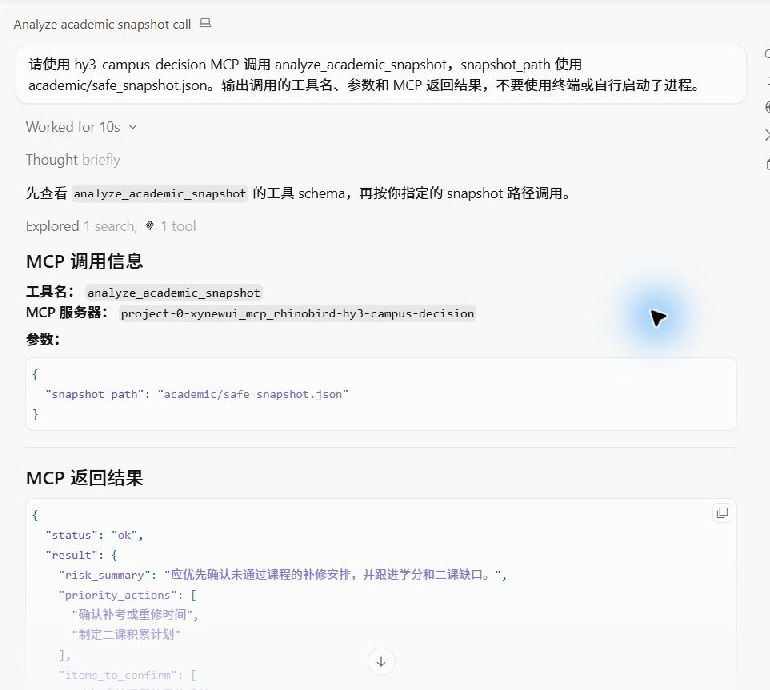
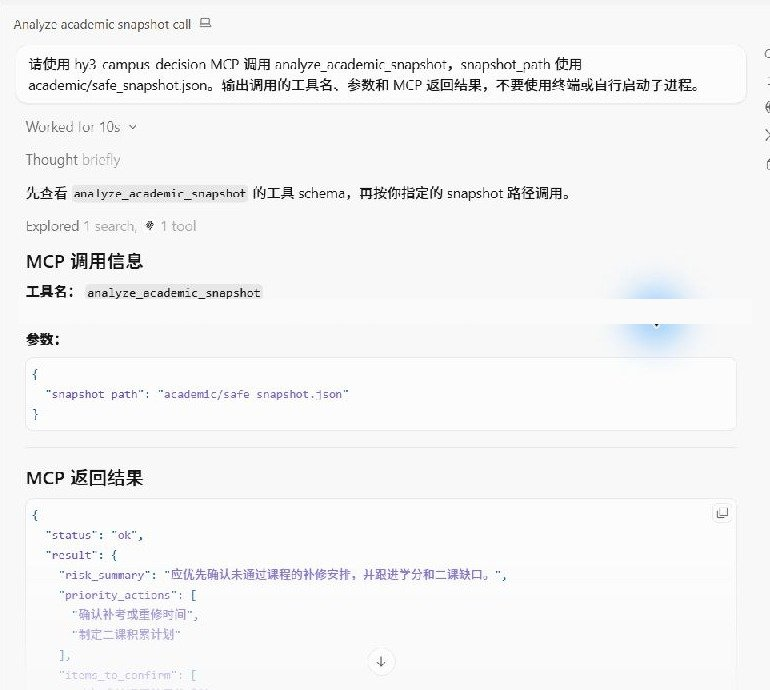
feat(evaluation): add full MCP protocol evidence

Changed region(s): [[0.0312, 0.4261, 0.6234, 0.487], [0.8104, 0.4261, 0.9039, 0.487]]

diff --git a/scripts/sdk_stdio_client.py b/scripts/sdk_stdio_client.py
@@ -1,20 +1,69 @@
-"""使用官方 MCP Python SDK 验证 stdio 协议。"""
+"""使用官方 MCP Python SDK 运行五个完整 stdio 协议评测案例。"""
 
 from __future__ import annotations
 
+import argparse
 import asyncio
 import json
 import sys
+from collections.abc import Callable
 from pathlib import Path
 from typing import Any
 
 from mcp import ClientSession, StdioServerParameters, stdio_client
 
 PROJECT_ROOT = Path(__file__).resolve().parents[1]
+RESULTS_FILE = PROJECT_ROOT / "evaluation" / "mcp-results.json"
+EXPECTED_TOOLS = {
+    "hy3_campus_status",
+    "answer_campus_question",
+    "compare_competitions",
+    "analyze_academic_snapshot",
+    "plan_student_week",
+}
+
+
+def _require_ok(response: Any, tool_name: str) -> dict[str, Any]:
+    """确认 SDK 返回了成功的结构化工具结果。"""
+
+    if response.isError or response.structuredContent is None:
+        raise AssertionError(
+            f"{tool_name} 调用失败：isError={response.isError}; "
+            f"structuredContent={response.structuredContent!r}"
+        )
+    result = response.structuredContent
+    if result.get("status") != "ok":
+        raise AssertionError(f"{tool_name} 返回非成功状态：{result!r}")
+    return result
+
+
+def _assert_tool_list(tool_names: set[str]) -> None:
+    """确认 Fixture 模式精确注册五个公开工具。"""
+
+    if tool_names != EXPECTED_TOOLS:
+        raise AssertionError(f"工具集合不一致：{sorted(tool_names)}")
+
+
+def _record_case(
+    details: list[dict[str, str]],
+    case_id: str,
+    assertion: str,
+    operation: Callable[[], Any],
+) -> None:
+    """执行一个同步断言，并把结果归一成稳定的机器可读记录。"""
+
+    try:
+        operation()
+    except Exception as error:
+        details.append(
+            {"id": case_id, "status": "failed", "assertion": assertion, "reason": str(error)}
+        )
+    else:
+        details.append({"id": case_id, "status": "passed", "assertion": assertion})
 
 
 async def verify_stdio_protocol() -> dict[str, Any]:
-    """通过子进程完成 initialize、tools/list 与四个核心 tools/call。"""
+    """通过子进程完成 initialize、tools/list 与四个 tools/call 案例。"""
 
     parameters = StdioServerParameters(
         command=sys.executable,
@@ -26,58 +75,139 @@ async def verify_stdio_protocol() -> dict[str, Any]:
             "HY3_FIXTURE_ROOT": "./tests/fixtures/hy3",
         },
     )
-    calls = {
-        "answer_campus_question": {
-            "query": "创新创业学分如何认定？",
-            "category": "policy",
-            "max_sources": 5,
-        },
-        "compare_competitions": {
-            "competition_names": ["蓝桥杯", "中国国际大学生创新大赛"],
-            "student_profile": {
-                "major": "计算机科学与技术",
-                "grade": "大三",
-                "weekly_hours": 8,
-            },
-        },
-        "analyze_academic_snapshot": {"snapshot_path": "academic/safe_snapshot.json"},
-        "plan_student_week": {
-            "schedule_path": "schedules/sample_week.json",
-            "goals": [{"name": "准备蓝桥杯", "weekly_minutes": 360, "priority": "high"}],
-            "constraints": {},
-        },
-    }
+    details: list[dict[str, str]] = []
     async with stdio_client(parameters, errlog=sys.stderr) as (read_stream, write_stream):
         async with ClientSession(read_stream, write_stream) as session:
             initialized = await session.initialize()
             tools = await session.list_tools()
             tool_names = {tool.name for tool in tools.tools}
-            if len(tool_names) != 5:
-                raise RuntimeError("Fixture 模式应注册五个工具")
-            results: dict[str, str] = {}
-            for tool_name, arguments in calls.items():
-                response = await session.call_tool(tool_name, arguments)
-                if response.isError or response.structuredContent is None:
-                    raise RuntimeError(
-                        f"stdio 工具调用失败：{tool_name}; "
-                        f"isError={response.isError}; "
-                        f"structuredContent={response.structuredContent!r}; "
-                        f"content={response.content!r}"
-                    )
-                if response.structuredContent.get("status") != "ok":
-                    raise RuntimeError(f"stdio 工具返回错误：{tool_name}")
-                results[tool_name] = "ok"
+            _record_case(
+                details,
+                "e2e-01",
+                "tools/list 精确返回五个公开工具",
+                lambda: _assert_tool_list(tool_names),
+            )
+
+            academic_response = await session.call_tool(
+                "analyze_academic_snapshot",
+                {"snapshot_path": "academic/safe_snapshot.json"},
+            )
+            _record_case(
+                details,
+                "e2e-02",
+                "学业分析通过 MCP 返回结构化成功结果",
+                lambda: _require_ok(academic_response, "analyze_academic_snapshot"),
+            )
+
+            competition_response = await session.call_tool(
+                "compare_competitions",
+                {
+                    "competition_names": ["蓝桥杯", "中国国际大学生创新大赛"],
+                    "student_profile": {
+                        "major": "计算机科学与技术",
+                        "grade": "大三",
+                        "weekly_hours": 8,
+                    },
+                },
+            )
+            _record_case(
+                details,
+                "e2e-03",
+                "竞赛比较通过 MCP 保持四维结果分离",
+                lambda: _assert_competition_result(
+                    _require_ok(competition_response, "compare_competitions")
+                ),
+            )
+
+            plan_response = await session.call_tool(
+                "plan_student_week",
+                {
+                    "schedule_path": "schedules/sample_week.json",
+                    "goals": [{"name": "准备蓝桥杯", "weekly_minutes": 360, "priority": "high"}],
+                    "constraints": {},
+                },
+            )
+            _record_case(
+                details,
+                "e2e-04",
+                "周计划通过 MCP 返回经硬约束复核的结果",
+                lambda: _assert_plan_result(_require_ok(plan_response, "plan_student_week")),
+            )
+
+            rejected_response = await session.call_tool(
+                "analyze_academic_snapshot",
+                {"snapshot_path": "../secret.env"},
+            )
+            _record_case(
+                details,
+                "e2e-05",
+                "路径越界通过 MCP 返回 path_traversal_rejected",
+                lambda: _assert_path_rejection(rejected_response),
+            )
+
+    passed = sum(case["status"] == "passed" for case in details)
+    total = len(details)
     return {
-        "status": "ok",
+        "benchmark_version": "mcp-protocol-v1",
+        "case_count": total,
+        "passed": passed,
+        "failed": total - passed,
+        "pass_rate_percent": round(passed / total * 100, 2),
         "server": initialized.serverInfo.name,
-        "tools": results,
+        "cases": details,
     }
 
 
-def main() -> None:
-    """执行 SDK 协议验证并输出不含敏感信息的摘要。"""
+def _assert_competition_result(result: dict[str, Any]) -> None:
+    """确认完整协议结果没有把四个赛事维度压缩成综合分。"""
 
-    print(json.dumps(asyncio.run(verify_stdio_protocol()), ensure_ascii=False))
+    comparisons = result.get("deterministic_findings", {}).get("comparisons", [])
+    required = {"school_recognition", "human_evaluation", "student_fit", "evidence_quality"}
+    if len(comparisons) != 2:
+        raise AssertionError("竞赛比较没有返回两个候选项")
+    if any(not required.issubset(item) or "score" in item for item in comparisons):
+        raise AssertionError("竞赛维度缺失或被压缩为综合分")
+
+
+def _assert_plan_result(result: dict[str, Any]) -> None:
+    """确认服务端硬约束复核通过后返回了完整计划。"""
+
+    findings = result.get("deterministic_findings", {})
+    if not findings.get("plan") or findings.get("total_scheduled_minutes") != 360:
+        raise AssertionError("周计划未完整安排 360 分钟目标")
+
+
+def _assert_path_rejection(response: Any) -> None:
+    """确认危险路径以业务错误信封安全失败。"""
+
+    result = response.structuredContent
+    if response.isError or result is None:
+        raise AssertionError("路径拒绝没有返回结构化业务错误")
+    if result.get("status") != "error" or result.get("code") != "path_traversal_rejected":
+        raise AssertionError(f"路径拒绝错误码不稳定：{result!r}")
+
+
+def main() -> None:
+    """执行协议评测，写入或核对不含敏感信息的稳定结果。"""
+
+    parser = argparse.ArgumentParser()
+    mode = parser.add_mutually_exclusive_group()
+    mode.add_argument("--write", action="store_true", help="更新提交的机器可读结果")
+    mode.add_argument("--check", action="store_true", help="核对提交结果与当前实现一致")
+    args = parser.parse_args()
+
+    result = asyncio.run(verify_stdio_protocol())
+    encoded = json.dumps(result, ensure_ascii=False, indent=2) + "\n"
+    if args.write:
+        RESULTS_FILE.write_text(encoded, encoding="utf-8", newline="\n")
+    elif args.check:
+        if not RESULTS_FILE.is_file() or RESULTS_FILE.read_text(encoding="utf-8") != encoded:
+            raise SystemExit("evaluation/mcp-results.json 与当前 MCP 协议实现不一致")
+
+    summary = {key: result[key] for key in ("case_count", "passed", "failed", "pass_rate_percent")}
+    print(json.dumps(summary, ensure_ascii=False))
+    if result["failed"]:
+        raise SystemExit(1)
 
 
 if __name__ == "__main__":

diff --git a/evaluation/README.md b/evaluation/README.md
@@ -1,6 +1,6 @@
 # 可复现可靠性评测
 
-本目录用 30 个合成案例验证可客观判定的系统属性，不把 Fixture 输出冒充真实 Hy3 效果，也不使用“回答更好”等主观指标。
+本目录包含 30 个确定性护栏案例和 5 个完整 MCP 协议案例。前者直接验证可客观判定的计算与安全属性，后者使用官方 MCP SDK 实际启动 stdio 子进程，执行 `initialize -> tools/list -> tools/call`。两组评测都不把 Fixture 输出冒充真实 Hy3 效果，也不使用“回答更好”等主观指标。
 
 | 类别 | 案例数 | 核验内容 |
 | --- | ---: | --- |
@@ -20,5 +20,19 @@ uv run python evaluation/run_evaluation.py
 ```powershell
 uv run python evaluation/run_evaluation.py --check
 ```
+
+运行 5 个完整 MCP 协议案例并更新机器可读结果：
+
+```powershell
+uv run python scripts/sdk_stdio_client.py --write
+```
+
+检查协议结果：
+
+```powershell
+uv run python scripts/sdk_stdio_client.py --check
+```
+
+协议案例覆盖五个工具发现、学业分析、竞赛四维分离、无硬约束违规的周计划，以及 `../secret.env` 返回稳定的 `path_traversal_rejected`。结果分别保存在 `results.json` 和 `mcp-results.json`。
 
 真实 Hy3 Live 验证单独记录在 `assets/live-verification.md`。直接模型基线必须使用同一批提示、真实 API 和人工标注后才能发布；在这些条件满足前，本项目不会生成虚假的对照数字。
